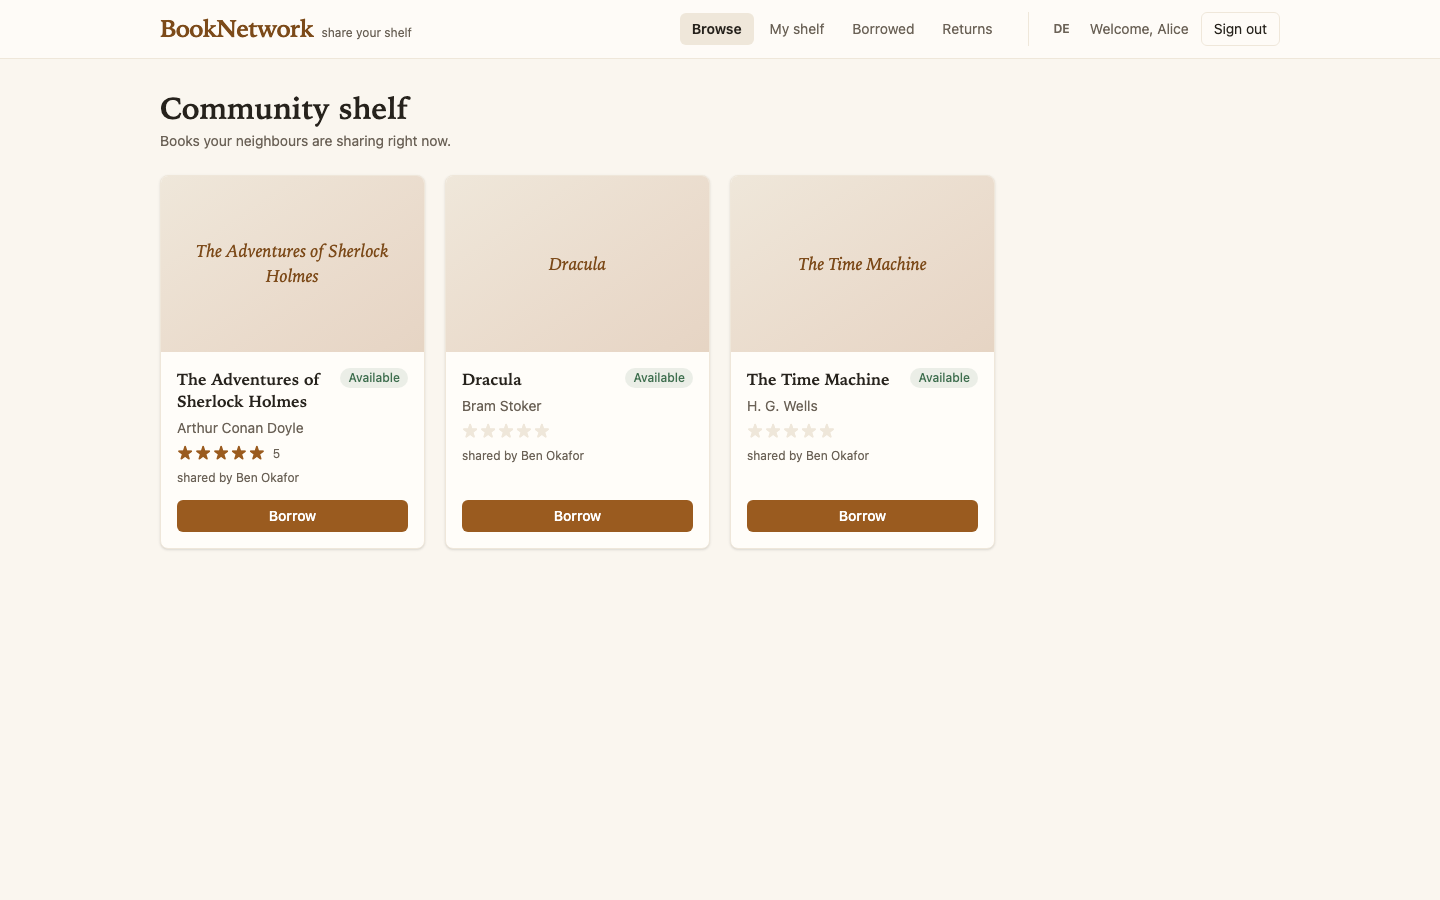
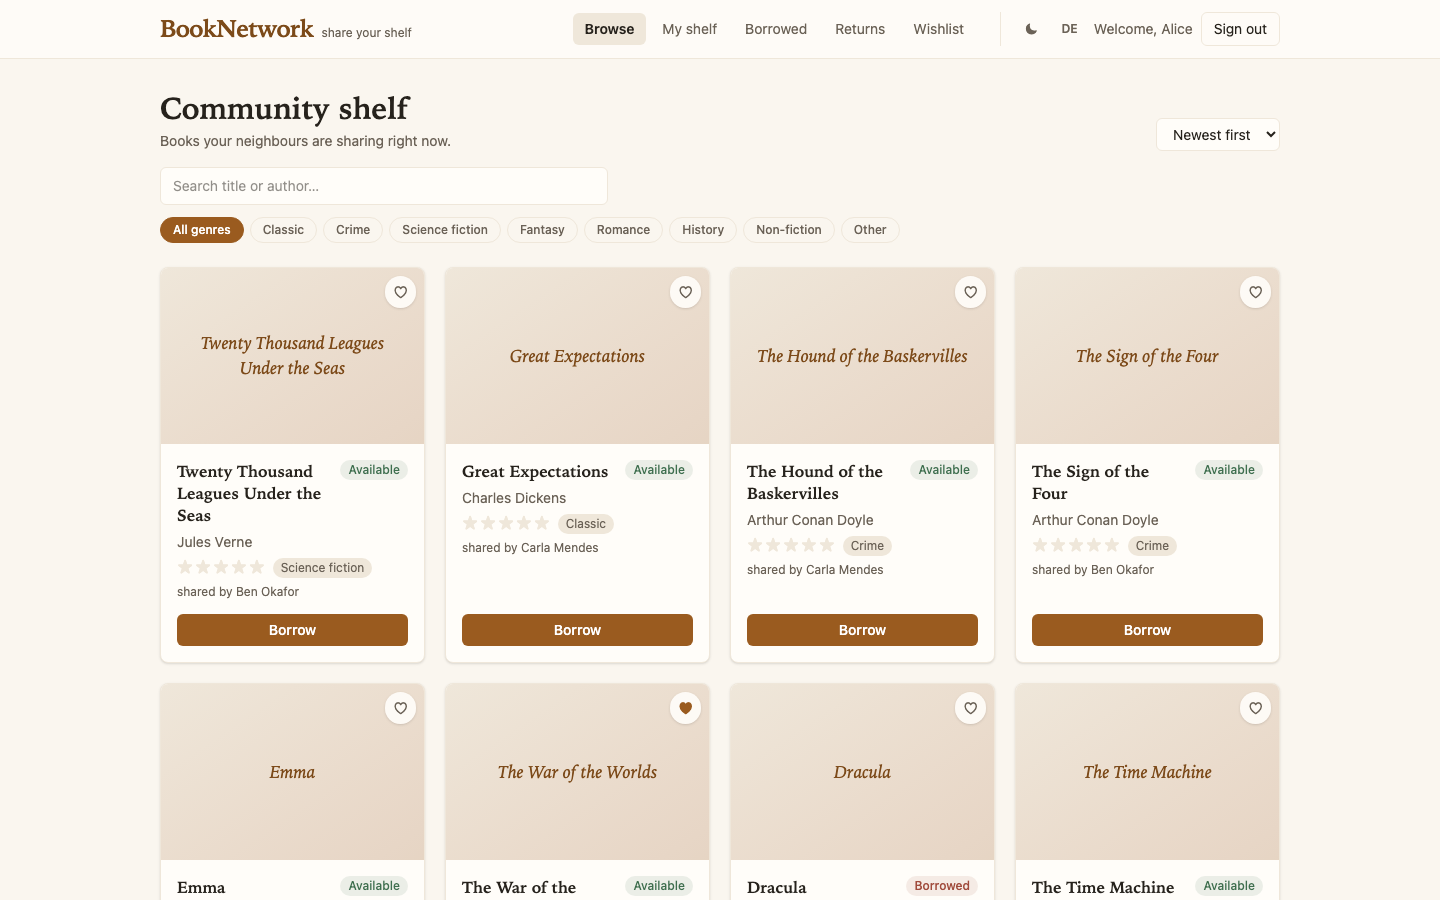
E2E: reservation arc and discovery loop; suite heals itself
The reservation spec plays all three members: borrow, queue with
position, return, approval that hands the book to the first in line,
and the notification mail read from MailDev's API. The discovery spec
covers search, genre filter and the wishlist round trip. Guards read
the page's own API responses instead of probing for buttons, clicks
wait for their POST to land, and navigation uses full loads because
the router ignores same-URL clicks — so a crashed run's leftovers are
healed on the next one. README refreshed with the new features and
four current screenshots.

diff --git a/booknetwork-e2e/tests/reservation-arc.spec.ts b/booknetwork-e2e/tests/reservation-arc.spec.ts
@@ -1,0 +1,122 @@
+import { Browser, Page, expect, test } from '@playwright/test';
+
+/**
+ * The queue in action, all three members playing their parts: Ben borrows
+ * Alice's book, Carla reserves it, and when Alice approves Ben's return the
+ * book is lent straight to Carla — she never clicks "borrow". Carla then
+ * returns it and Alice approves with an empty queue, so the world ends up
+ * exactly as it began. A prologue clears leftovers of a crashed earlier run,
+ * so the suite heals itself instead of relying on a pristine stack.
+ */
+
+const BOOK = 'Persuasion';
+
+async function signIn(browser: Browser, email: string): Promise<Page> {
+  const context = await browser.newContext();
+  const page = await context.newPage();
+  await page.goto('/');
+  await page.getByLabel(/E-?Mail/i).fill(email);
+  await page.locator('#password').fill('booknetwork');
+  await page.locator('#kc-login').click();
+  await expect(page.getByRole('link', { name: 'BookNetwork' })).toBeVisible();
+  return page;
+}
+
+function card(page: Page) {
+  return page.locator('article').filter({ hasText: BOOK });
+}
+
+interface LoanRow {
+  title?: string;
+  returned?: boolean;
+  approved?: boolean;
+}
+
+/**
+ * The guards read the page's own API response — the JSON decides whether an
+ * action is due, never a "did the button render yet?" heuristic. Clicks then
+ * wait for their POST to land, because a click resolves on the DOM event and
+ * the next step must not race the server.
+ */
+async function returnIfHeld(borrower: Page): Promise<void> {
+  // goto, not a nav click: clicking "Borrowed" while already on /borrowed is a
+  // same-URL navigation the router ignores — no request fires and a
+  // waitForResponse would hang. A full load always fetches.
+  const loaded = borrower.waitForResponse((r) => r.url().includes('/loans/borrowed'));
+  await borrower.goto('/borrowed');
+  const rows: LoanRow[] = ((await (await loaded).json()).content ?? []);
+  if (!rows.some((l) => l.title === BOOK && !l.returned)) {
+    return;
+  }
+  const done = borrower.waitForResponse(
+    (r) => r.url().includes('/return') && r.request().method() === 'POST');
+  await borrower.locator('li').filter({ hasText: BOOK }).first()
+    .getByRole('button', { name: 'Return' }).click();
+  await done;
+}
+
+async function approveIfPending(owner: Page): Promise<void> {
+  const loaded = owner.waitForResponse((r) => r.url().includes('/loans/returned'));
+  await owner.goto('/returns');
+  const rows: LoanRow[] = ((await (await loaded).json()).content ?? []);
+  if (!rows.some((l) => l.title === BOOK && l.returned && !l.approved)) {
+    return;
+  }
+  const done = owner.waitForResponse(
+    (r) => r.url().includes('/approve') && r.request().method() === 'POST');
+  await owner.locator('li').filter({ hasText: BOOK }).first()
+    .getByRole('button', { name: 'Approve return' }).click();
+  await done;
+}
+
+test('the queue hands a returned book to the next reader', async ({ browser }) => {
+  const ben = await signIn(browser, 'ben@booknetwork.dev');
+  const alice = await signIn(browser, 'alice@booknetwork.dev');
+  const carla = await signIn(browser, 'carla@booknetwork.dev');
+
+  // Prologue: heal whatever a crashed run left behind.
+  await returnIfHeld(ben);
+  await returnIfHeld(carla);
+  await approveIfPending(alice);
+
+  // Ben borrows Alice's book.
+  await ben.getByRole('link', { name: 'Browse' }).click();
+  await card(ben).getByRole('button', { name: 'Borrow' }).click();
+  await expect(card(ben).getByText('Borrowed')).toBeVisible();
+
+  // Carla queues for it and sees her position.
+  await carla.getByRole('link', { name: 'Browse' }).click();
+  await card(carla).getByRole('button', { name: 'Reserve' }).click();
+  await expect(card(carla).getByRole('button', { name: 'Leave queue' })).toBeVisible();
+  await carla.getByRole('link', { name: 'Borrowed' }).click();
+  await expect(carla.getByText('Position 1 in queue')).toBeVisible();
+
+  // Ben returns; Alice approves — and the book flows on to Carla by itself.
+  await returnIfHeld(ben);
+  await approveIfPending(alice);
+
+  // Carla now holds the book without ever borrowing it herself...
+  await carla.goto('/borrowed');
+  const carlaLoan = carla.locator('li').filter({ hasText: BOOK }).first();
+  await expect(carlaLoan.getByRole('button', { name: 'Return' })).toBeVisible();
+
+  // ...and was told by mail.
+  const mails = await (await carla.request.get('http://localhost:1080/api/email')).json();
+  const fulfilled = mails.filter(
+    (m: { subject?: string; to?: Array<{ address?: string }> }) =>
+      m.subject === 'Your reserved book is yours' &&
+      m.to?.some((t) => t.address === 'carla@booknetwork.dev')
+  );
+  expect(fulfilled.length).toBeGreaterThan(0);
+
+  // Restore the world: Carla returns, Alice approves an empty queue.
+  await returnIfHeld(carla);
+  await approveIfPending(alice);
+  const ben2 = await signIn(browser, 'ben@booknetwork.dev');
+  await expect(card(ben2).getByText('Available')).toBeVisible();
+
+  await ben.context().close();
+  await carla.context().close();
+  await alice.context().close();
+  await ben2.context().close();
+});

diff --git a/booknetwork-e2e/tests/discovery.spec.ts b/booknetwork-e2e/tests/discovery.spec.ts
@@ -1,0 +1,46 @@
+import { Browser, Page, expect, test } from '@playwright/test';
+
+/** Search, genre filter and the wishlist — the discovery loop. */
+
+async function signIn(browser: Browser, email: string): Promise<Page> {
+  const context = await browser.newContext();
+  const page = await context.newPage();
+  await page.goto('/');
+  await page.getByLabel(/E-?Mail/i).fill(email);
+  await page.locator('#password').fill('booknetwork');
+  await page.locator('#kc-login').click();
+  await expect(page.getByRole('link', { name: 'BookNetwork' })).toBeVisible();
+  return page;
+}
+
+test('search narrows, genres filter, and the wishlist remembers', async ({ browser }) => {
+  const alice = await signIn(browser, 'alice@booknetwork.dev');
+
+  // Search finds Carla's Austen; Alice's own Austen titles stay off the shelf.
+  await alice.getByPlaceholder('Search title or author…').fill('austen');
+  await expect(alice.locator('article').filter({ hasText: 'Emma' })).toBeVisible();
+  await expect(alice.locator('article').filter({ hasText: 'Persuasion' })).toHaveCount(0);
+
+  // The crime chip narrows to detective fiction.
+  await alice.getByPlaceholder('Search title or author…').clear();
+  await alice.getByRole('button', { name: 'Crime', exact: true }).click();
+  await expect(alice.locator('article').filter({ hasText: 'Sherlock' }).first()).toBeVisible();
+  await expect(alice.locator('article').filter({ hasText: 'Emma' })).toHaveCount(0);
+
+  // Wishlist: bookmark Emma, find it on the wishlist page, remove it again.
+  // (A crashed earlier run may have left Emma bookmarked — then just proceed.)
+  await alice.getByRole('button', { name: 'All genres' }).click();
+  const emma = alice.locator('article').filter({ hasText: 'Emma' });
+  await expect(emma).toBeVisible();
+  if (await emma.getByRole('button', { name: 'Add to wishlist' }).count()) {
+    await emma.getByRole('button', { name: 'Add to wishlist' }).click();
+  }
+  await alice.getByRole('link', { name: 'Wishlist' }).click();
+  await expect(alice.locator('article').filter({ hasText: 'Emma' })).toBeVisible();
+  await alice.locator('article').filter({ hasText: 'Emma' })
+    .getByRole('button', { name: 'Remove from wishlist' }).click();
+  // Emma is gone; the seeded wishlist entry (The War of the Worlds) remains.
+  await expect(alice.locator('article').filter({ hasText: 'Emma' })).toHaveCount(0);
+
+  await alice.context().close();
+});

diff --git a/README.md b/README.md
@@ -11,13 +11,22 @@ only frees a book once its owner approves it.
 ![Keycloak 24](https://img.shields.io/badge/Keycloak-24-4d4d4d)
 ![Playwright](https://img.shields.io/badge/E2E-Playwright-2ead33)
 
-The interface speaks English and German and switches at runtime, without a
-reload. Business rules surface as machine-readable codes that the UI
-translates — the backend never ships display text.
+Beyond the lending core, members search and filter the shelf by genre, sort
+by rating, bookmark books on a wishlist, browse each other's shelves, and
+queue for borrowed books — when the owner approves a return, the book is lent
+straight to the first reservation and its holder is told by mail. Loans carry
+a three-week due date and show up as overdue when it passes. The interface
+speaks English and German and switches at runtime, without a reload; a dark
+theme is one click away. Business rules surface as machine-readable codes
+that the UI translates — the backend never ships display text.
 
-| Community shelf | Book detail with feedback | Runtime language switch |
-| --- | --- | --- |
-| ![Community shelf](docs/screenshots/community-shelf.png) | ![Book detail](docs/screenshots/book-detail.png) | ![My shelf in German](docs/screenshots/my-shelf-de.png) |
+| Community shelf | Book detail with feedback |
+| --- | --- |
+| ![Community shelf](docs/screenshots/community-shelf.png) | ![Book detail](docs/screenshots/book-detail.png) |
+
+| Runtime language switch | Dark theme |
+| --- | --- |
+| ![My shelf in German](docs/screenshots/my-shelf-de.png) | ![Dark mode](docs/screenshots/dark-mode.png) |
 
 ## Architecture
 
@@ -60,11 +69,19 @@ development value, not a secret.
 
 ## Domain rules
 
-A book can be lent to one member at a time. Members cannot borrow or rate
-their own books, only the borrower can return a loan, only the owner can
+A book can be lent to one member at a time. Members cannot borrow, reserve or
+rate their own books, only the borrower can return a loan, only the owner can
 approve the return, and feedback is reserved for members who actually
-borrowed the book. Violations answer with `409` and a stable code
-(`already_borrowed`, `never_borrowed`, `not_owner`, …).
+borrowed the book. Reserving is only possible while someone else holds the
+book — a free book is simply borrowed — and each member holds at most one
+place per queue, enforced by a partial unique index just like the single live
+loan per book. Violations answer with `409` and a stable code
+(`already_borrowed`, `never_borrowed`, `book_available`, `not_owner`, …).
+
+Notifications are plain mail, sent best-effort so a failing SMTP never breaks
+the business operation: the owner hears about borrows and returns, the
+borrower about approvals, and the first in the queue when a book becomes
+theirs. Locally everything lands in MailDev.
 
 ## API
 
@@ -79,9 +96,12 @@ generated from — regenerate with `npx ng-openapi-gen` after API changes.
 cd booknetwork-e2e && npm ci && npx playwright install chromium && npm test
 ```
 
-The Playwright suite drives the full lending arc through real Keycloak
-logins — Alice borrows Ben's book, returns it, Ben approves — and leaves the
-data exactly as it found it, so it can run repeatedly against the same stack.
+The Playwright suite drives the app through real Keycloak logins: the full
+lending arc, the reservation queue with all three members (including the
+automatic hand-over and its notification mail), and the discovery loop of
+search, genre filter and wishlist. Every spec restores the state it found and
+heals leftovers of a crashed earlier run, so the suite can run repeatedly
+against the same stack.
 
 ## Repository layout
 
